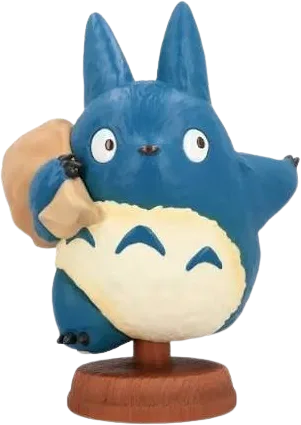
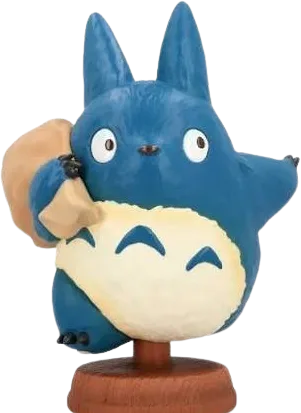
Test shelf: replace the Totoro image (flat-bottomed stand)

diff --git a/src/app/components/ShelfTest.tsx b/src/app/components/ShelfTest.tsx
@@ -38,7 +38,7 @@ const DECOR_CHOICE_KEY = 'shelf-decor-id';
 const DECOR_ITEMS = [
   { id: 'pot1', label: 'Белые петунии', src: '/decor/pot1.webp', aspect: 470 / 480, baseSink: 0.035, baseWidth: 0.36, baseCenter: 0.53 },
   { id: 'pot2', label: 'Лаванда', src: '/decor/pot2.webp', aspect: 371 / 470, baseSink: 0.03, baseWidth: 0.36, baseCenter: 0.49 },
-  { id: 'figure1', label: 'Тоторо', src: '/decor/figure1.webp', aspect: 301 / 425, baseSink: 0.02, baseWidth: 0.52, baseCenter: 0.5 },
+  { id: 'figure1', label: 'Тоторо', src: '/decor/figure1.webp', aspect: 301 / 413, baseSink: 0.01, baseWidth: 0.52, baseCenter: 0.5 },
 ];
 
 function loadDecorId(): string {
